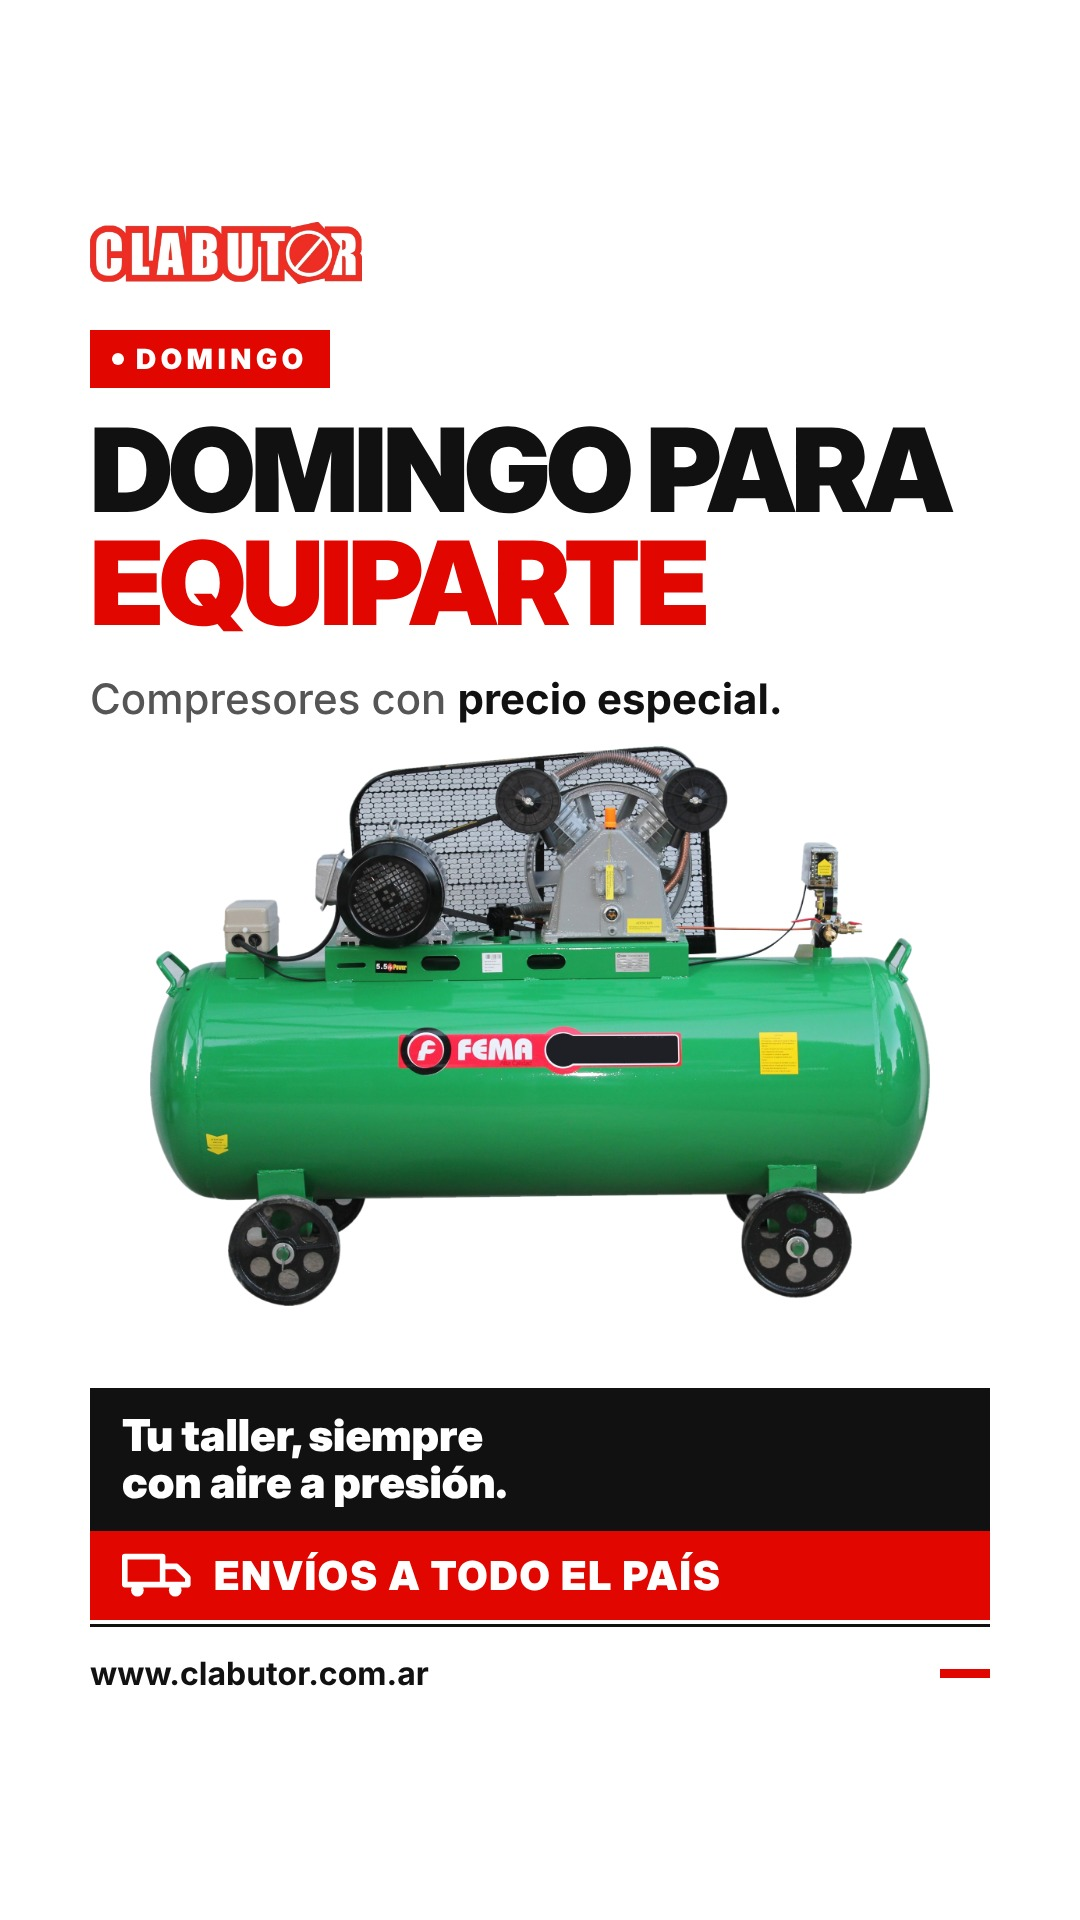
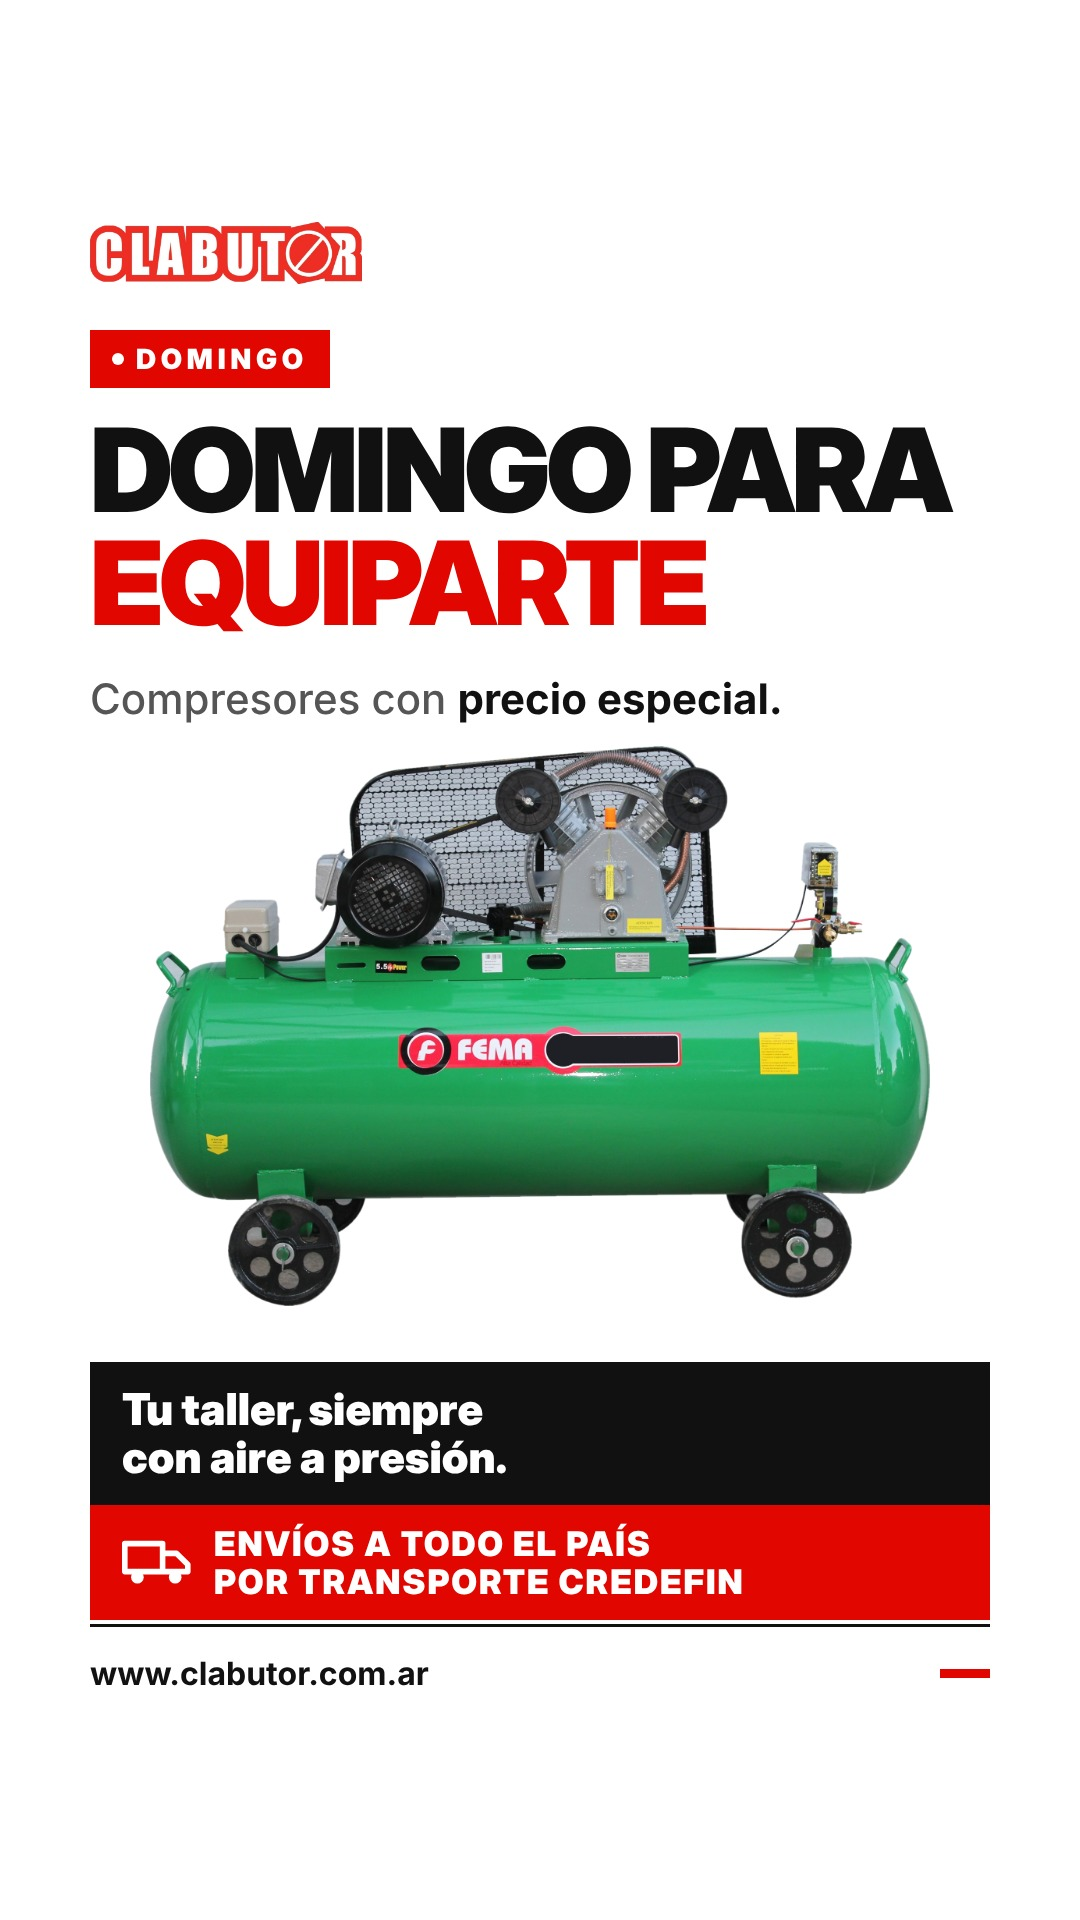
Compresores domingo: envíos por transporte Credefin; regla en REGLAS.md
Claude-Session: https://claude.ai/code/session_01XbJLpPx7CCs1ipZpL6GiAh

Changed region(s): [[0.0611, 0.6875, 0.9167, 0.8438]]

diff --git a/disenos/posteos/historia-compresores-domingo.py b/disenos/posteos/historia-compresores-domingo.py
@@ -64,7 +64,7 @@ def placas(g):
 <div style="position:absolute;left:0;right:0;bottom:0">
   <div style="background:{NEGRO};color:#fff;padding:24px 32px;font-family:Titular;font-weight:900;font-size:44px;line-height:1.08">Tu taller, siempre<br>con aire a presión.</div>
   <div style="display:flex;align-items:center;gap:22px;background:{ROJO};color:#fff;padding:20px 32px">{camion(70)}
-    <span style="font-family:Titular;font-weight:900;font-size:40px;letter-spacing:2px">ENVÍOS A TODO EL PAÍS</span></div>
+    <span style="font-family:Titular;font-weight:900;font-size:34px;letter-spacing:2px;line-height:1.1">ENVÍOS A TODO EL PAÍS<br>POR TRANSPORTE CREDEFIN</span></div>
 </div>
 '''
     salida = [("blanca colores-marca", portada)]

diff --git a/disenos/REGLAS.md b/disenos/REGLAS.md
@@ -51,3 +51,6 @@
   - Se aplica en **todas** las piezas con envío gratis (historias y posteos), salvo que el contenido indique otro precio.
 - Solo productos **con stock** y **con foto**. Para tener stock y costo al día, correr antes el export de BaseLinker (`bl_exportar.yml`, buscar "COMPLETO FEMA").
 - Función lista para usar: `precio_envio_gratis(costo)` en `disenos/generar.py`.
+
+## Envíos
+- Los envíos a todo el país son siempre por transporte Credefin: decirlo en la pieza ("Envíos a todo el país por transporte Credefin" / "Envío gratis por transporte Credefin").
